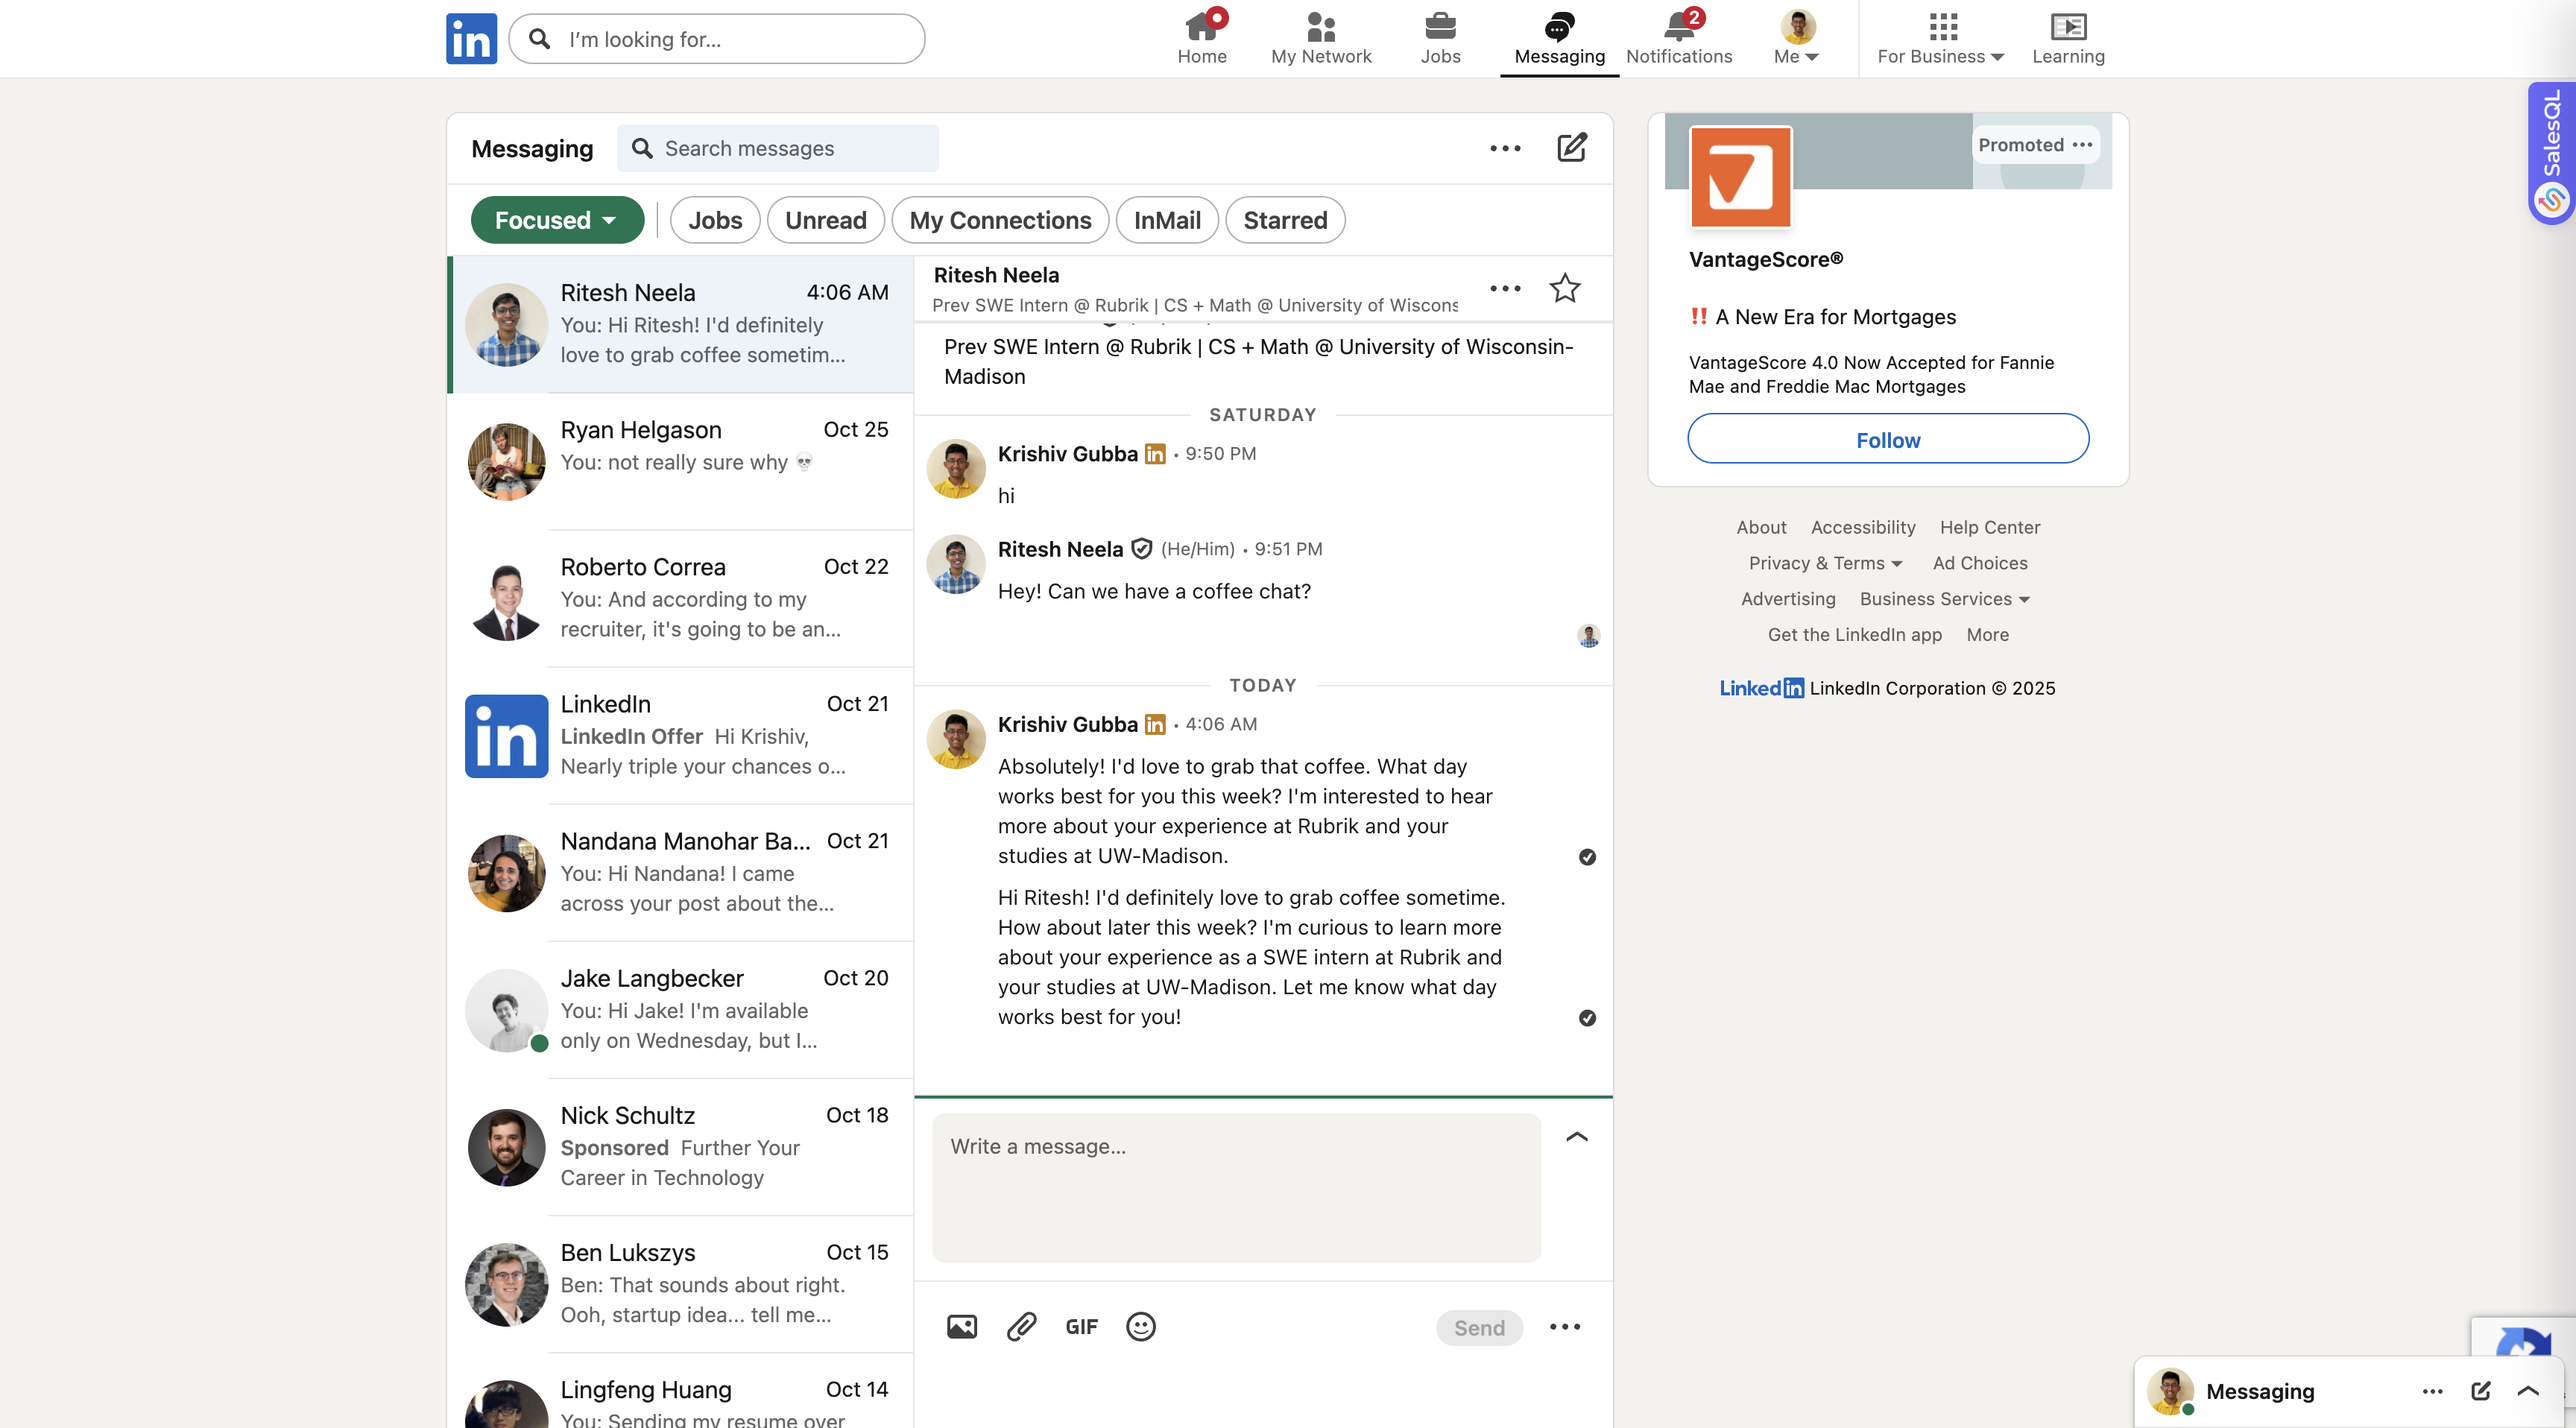
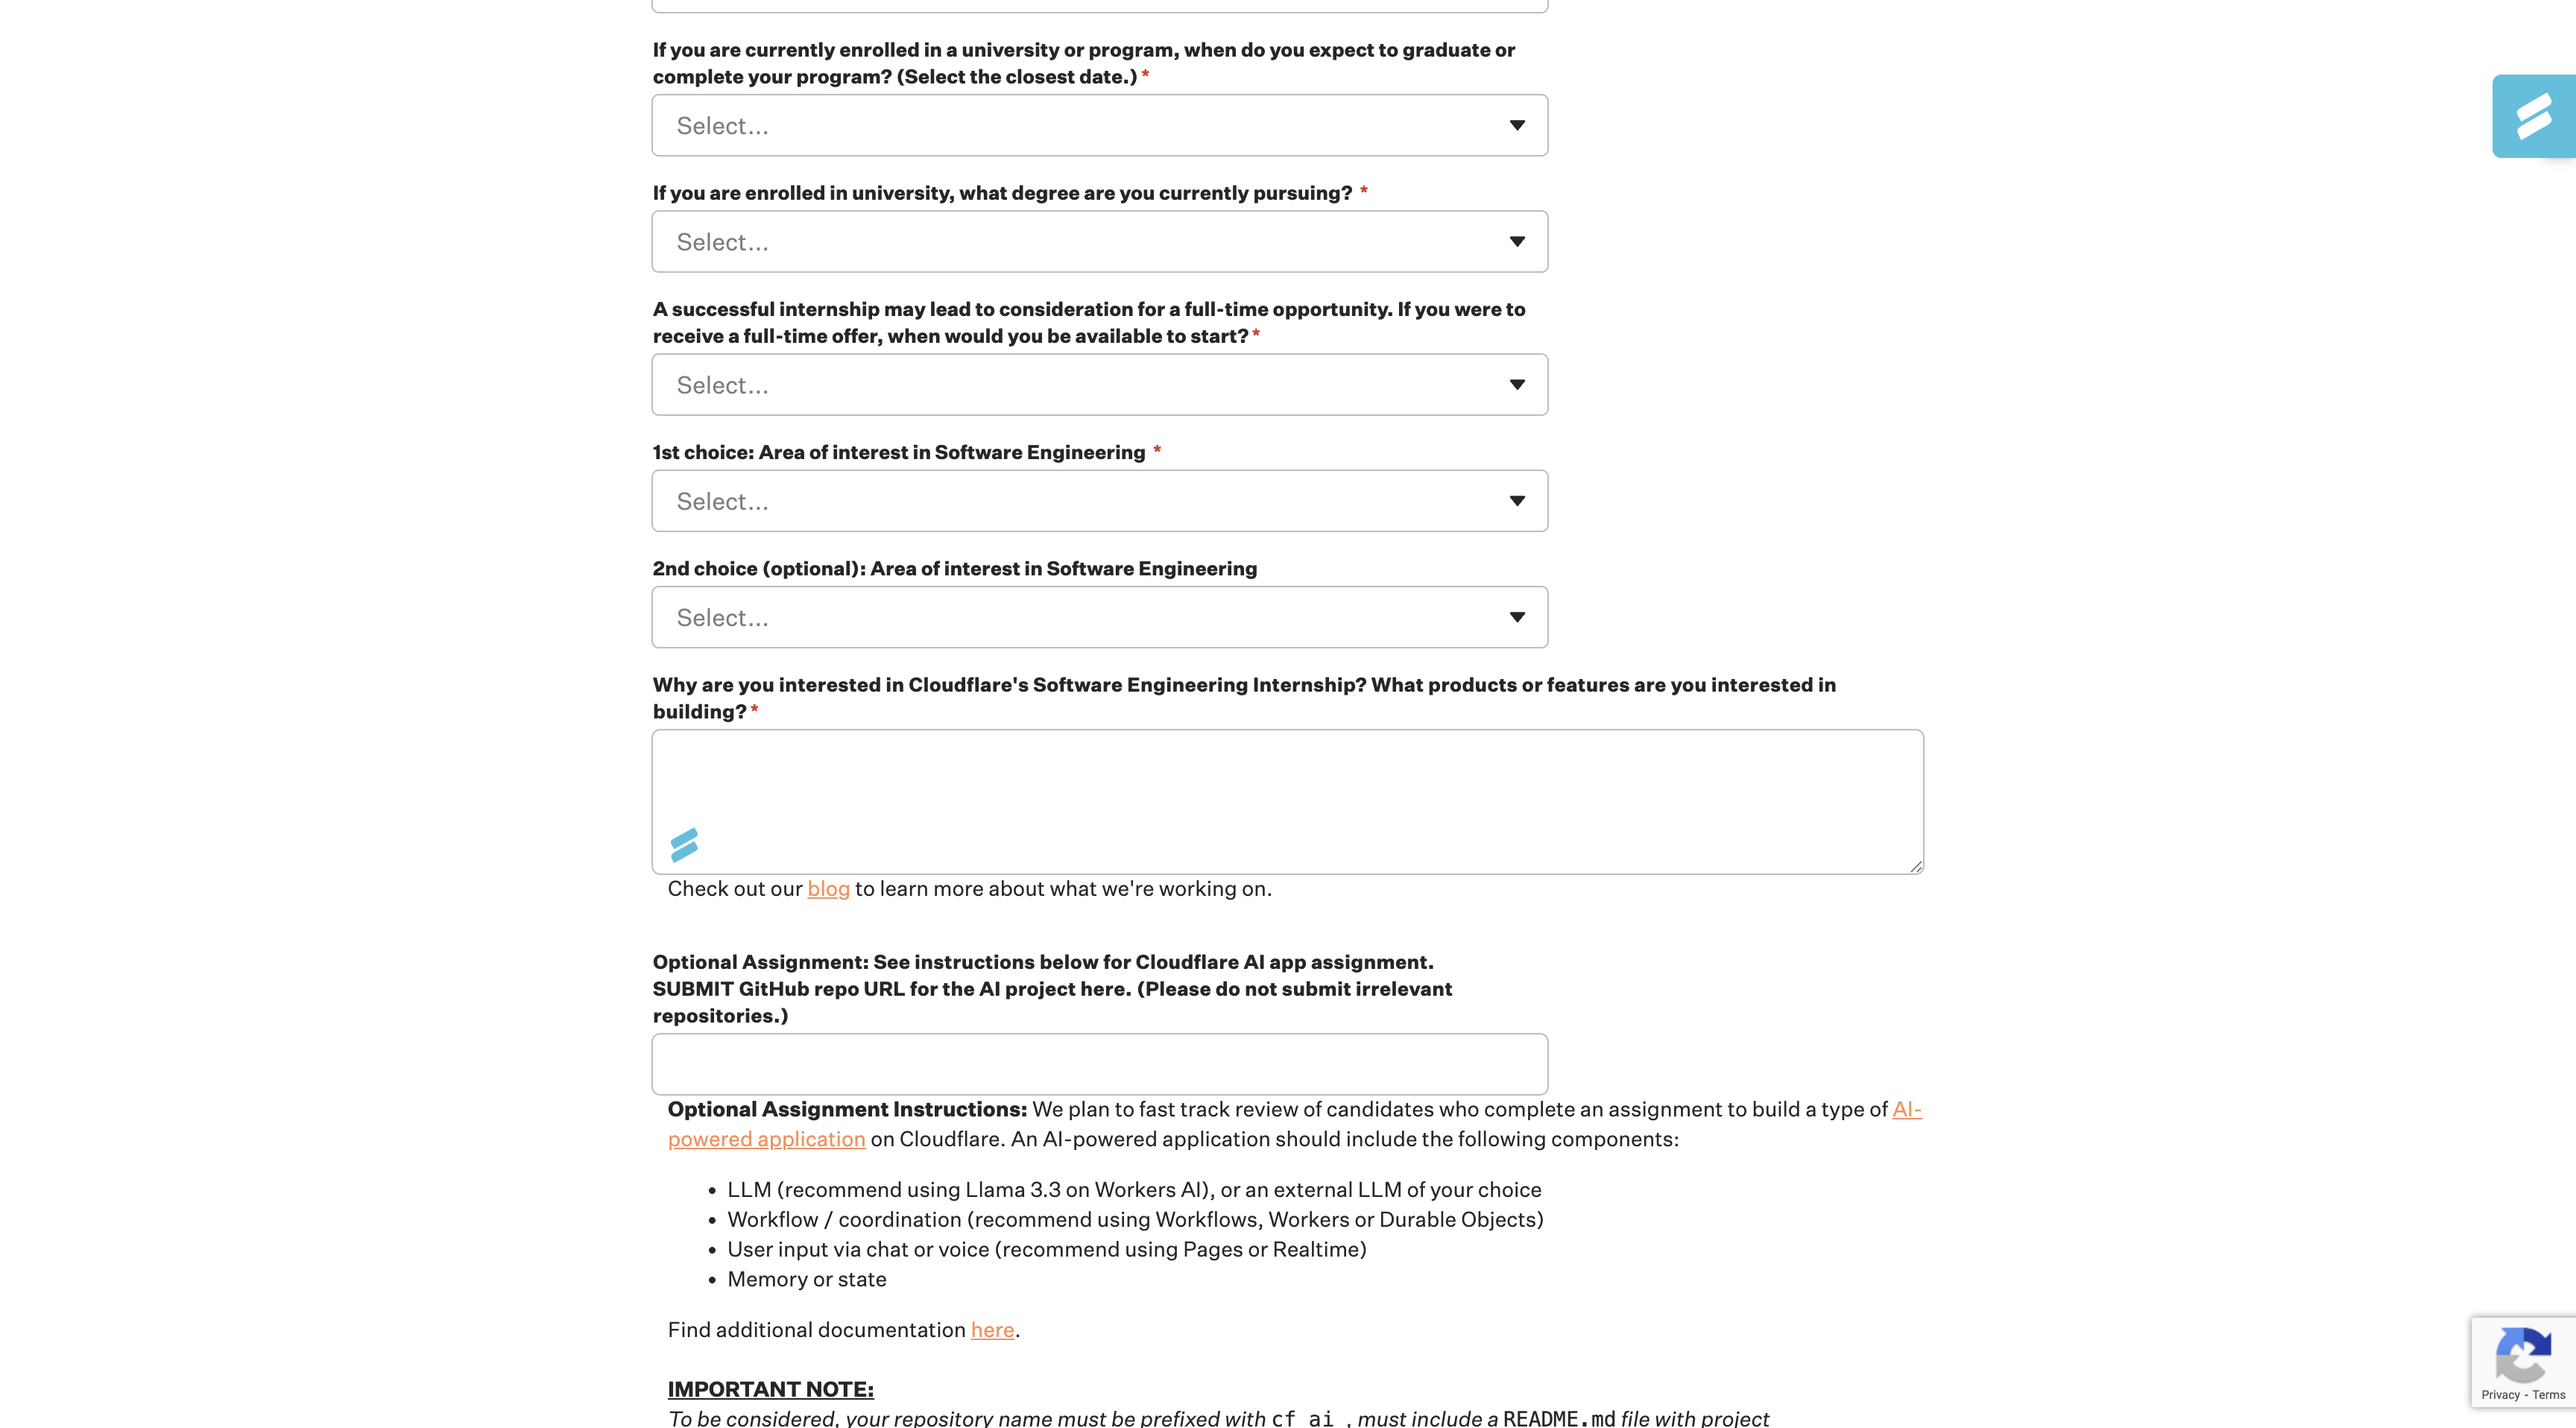
fsi;

diff --git a/executor/main.py b/executor/main.py
@@ -1,8 +1,9 @@
 from llm_client_obj import LLM_Client
 import json
-from learn_helper import LearnObject
-from vocab_code import click_at, insert_at
-
+from executor.learn_helper import LearnObject
+from executor.vocab_code import click_at, insert_at
+from executor.action_obj import Action
+from executor.action_run import get_simplified_dom
 
 def decide(context_json):
     """
@@ -67,6 +68,8 @@ You will be given a JSON object called `context_json` describing what the user i
 Your task is to decide if the user’s intent involves **sending, writing, or preparing a message or communication** 
 to another person or group.
 
+LOOK AT THE PREVIOUS MESSAGES IN THE CHAT BEFORE REPLYING PLEASE, MAKE YOUR REPLY RELEVANT TO THE PREVIOUS CHATS
+
 This includes:
 - typing in a chat box or DM window (Slack, Discord, LinkedIn, Gmail, Messenger, etc.)
 - replying to a message or email
@@ -78,6 +81,8 @@ It does **not** include:
 - reading messages without replying,
 - searching for information,
 - performing unrelated tasks (coding, browsing, buying, learning, watching videos, etc.).
+- just being on someone's linkedin page
+- applying to a job
 
 Respond **only** with a JSON object in this exact format:
 {{ "res": "True" }} or {{ "res": "False" }}
@@ -100,6 +105,57 @@ context_json:
         return "true" in response.lower()
     return False
 
+def decideIsConnectionRequesting(context_json):
+    """
+    Determines whether the user is trying to send or prepare a LinkedIn-style
+    connection request (or similar action such as adding, following, or networking).
+
+    Returns True or False.
+    """
+    prompt = f"""
+You are an intent classifier.
+
+You will be given a JSON object called `context_json` describing what the user is currently doing.
+
+Your task is to decide if the user's intent is to **connect or network** with another person
+— typically by sending a LinkedIn connection request, following someone, or initiating contact.
+
+This includes:
+- THIS INCLUDES BEING ON ANOTHER PERSON'S LINNKEDIN PAGE DO NOT FORGET THIS!!!!
+- hovering near or viewing a “Connect”, “Follow”, or “Add” button,
+- opening a modal to add a note to a connection request,
+- searching for people to connect with,
+- or otherwise indicating an intent to start a new professional connection.
+
+It does **not** include:
+- sending a chat message to someone already connected,
+- viewing random content feeds,
+- learning or researching a topic,
+- editing your own profile,
+- browsing unrelated websites.
+
+Respond **only** with a JSON object in this exact format:
+{{ "res": "True" }} or {{ "res": "False" }}
+
+context_json:
+{json.dumps(context_json, indent=4)}
+    """
+
+    response = LLM_Client.generate(
+        prompt=prompt.strip(),
+        sys_prompt="You are a precise intent classifier that decides if the user is trying to send a LinkedIn connection request or connect with a new person.",
+        model="claude-3-opus-latest"
+    )
+
+    # handle both dict or string return
+    if isinstance(response, dict):
+        val = response.get("res")
+        return str(val).lower() == "true"
+    if isinstance(response, str):
+        return "true" in response.lower()
+    return False
+
+
 
 def thingy(contextJson):
     #somehow the context has to be passed to us, maybe we can hit an endpoint
@@ -119,28 +175,75 @@ def thingy(contextJson):
         lo.youtubeSearchUp(allQueries[0])
         lo.switchToTabByIndex(0)
     else:
-        if decideIsMessageSending(context_json=contextJson):
+        if decideIsConnectionRequesting(context_json=contextJson):
+            print("we are connection request")
+            click_at(358, 504)
+            click_at(838, 232)
+            click_at(664, 224)
+            action, details = contextJson["action"], contextJson["details"]
+            messageToBeSent = LLM_Client.queryForMessage(action, details)
+            insert_at(messageToBeSent)
+        elif decideIsMessageSending(context_json=contextJson):
             click_at(642, 767)
             action, details = contextJson["action"], contextJson["details"]
             messageToBeSent = LLM_Client.queryForMessage(action, details)
             insert_at(messageToBeSent)
             click_at(1007, 884)
-        else:
-            print("not sending a message")
+        else: #is going to apply for a job lmao
+            for j in range(5):
+                for i in range(7):
+                    print("this is i", i)
+                #     contextJson = {
+                #         "goal" : "the user is trying to apply for a job",
+                #         "details" : """
+                # user details:
+                # first name: Krishiv
+                # last name: Gubba
+                # phone number: 8476682616
+                # email: kgubba@wisc.edu
+                #                     """
+                # }
+                    first = Action(contextJson=contextJson)
+                    client = LLM_Client()
+                    output = first.query_llm(client)
+                    first.execute(output)
+                    newDom = first.update_dom_change(get_simplified_dom())
+                    with open("/Users/krishivgubba/Dev/covalent-calhacks/executor/something.json", "w") as file:
+                        file.write(json.dumps(first.dom_snapshot))
+                    if i == 9:
+                        first.execute({
+                            "type" : "scroll",
+                            "direction" : "down",
+                            "amount" : 500
+                        })
+
 
 if __name__ == "__main__":
-    samples = [
         # {"action": "the user seems to have a question", "details": "what is the difference between supervised and unsupervised learning"},
         # {"action": "the user is searching something up", "details": "looking for a place to eat near San Francisco"},
         # {"action": "the user is debugging some code", "details": "trying to fix a syntax error in my Python script"},
-        # {"action": "the user is reading an article", "details": "reading about how blockchain consensus algorithms work"},
-        {"action": "the user is texting someone on linkedin", "details": "the user is dming ritesh neela"},
-    ]
+#         # {"action": "the user is reading an article", "details": "reading about how blockchain consensus algorithms work"},
+#         {"action": "the user is applying to a job", "details": """
+#                 user details:
+#                 first name: Krishiv
+#                 last name: Gubba
+#                 phone number: 8476682616
+#                 email: kgubba@wisc.edu
+# """},
+#     ]
 
-    print("=== Intent Classification Test ===")
-    for i, ctx in enumerate(samples, 1):
-        result = thingy(ctx)
-        print(f"Sample {i}:")
-        print(f"  action  = {ctx['action']}")
-        print(f"  details = {ctx['details']}")
-        print(f"  → messaging someone? {result}\n")
+    # print("=== Intent Classification Test ===")
+    # for i, ctx in enumerate(samples, 1):
+    #     result = thingy(ctx)
+    #     print(f"Sample {i}:")
+    #     print(f"  action  = {ctx['action']}")
+    #     print(f"  details = {ctx['details']}")
+    #     print(f"  → messaging someone? {result}\n")
+    bro = {"action": "the user is applying to a job", "details": """
+                user details:
+                first name: Krishiv
+                last name: Gubba
+                phone number: 8476682616
+                email: kgubba@wisc.edu
+"""}
+    thingy(bro)

diff --git a/executor/action_obj.py b/executor/action_obj.py
@@ -37,13 +37,11 @@ You must output exactly ONE JSON object describing the next action to take on th
 The JSON must follow this schema:
 
 {{
-    "type": "click" | "set_value" | "scroll" | "wait" | "hover" | "navigate" | "extract" | "done",
+    "type": "click" | "set_value" | "scroll" | "done",
     "selector": "CSS selector or text id to target (omit if not applicable)",
     "value": "string (required only for 'set_value')",
-    "url": "string (required only for 'navigate')",
     "direction": "down" | "up" (optional, for scroll),
     "amount": 800 (integer, optional, for scroll),
-    "duration": number (optional, for wait)
 }}
 
 ⚠ RULES
@@ -63,7 +61,7 @@ The JSON must follow this schema:
 - DO NOT EVER REPEAT PREVIOUS ACTIONS
 
 🧭 CONTEXT
-Goal: {self.context['goal']}
+Goal: {self.context['goal'] if 'goal' in self.context else self.context['action']}
 Details: {self.context['details']}
 Previous action: {self.prev_action}
 Last DOM change: {self.last_change}
@@ -134,25 +132,25 @@ Return only the JSON action now.
 # with open("/Users/krishivgubba/Dev/covalent-calhacks/executor/testscroll.json", "r") as data:
 #     time.sleep(4)
 #     thing = Action("", "", "")
-#     thing.execute(json.load(data))
-for i in range(10):
-    contextJson = {
-        "goal" : "the user is trying to apply for a job",
-        "details" : """
-user details:
-first name: krishiv
-last name: gubba
-phone number: 8476682616
-email: kgubba@wisc.edu
-                    """
-    }
-    first = Action(contextJson=contextJson)
-    client = LLM_Client()
-    output = first.query_llm(client)
-    first.execute(output)
-    newDom = first.update_dom_change(get_simplified_dom())
-    with open("/Users/krishivgubba/Dev/covalent-calhacks/executor/something.json", "w") as file:
-        file.write(json.dumps(first.dom_snapshot))
+# #     thing.execute(json.load(data))
+# for i in range(10):
+#     contextJson = {
+#         "goal" : "the user is trying to apply for a job",
+#         "details" : """
+# user details:
+# first name: krishiv
+# last name: gubba
+# phone number: 8476682616
+# email: kgubba@wisc.edu
+#                     """
+#     }
+#     first = Action(contextJson=contextJson)
+#     client = LLM_Client()
+#     output = first.query_llm(client)
+#     first.execute(output)
+#     newDom = first.update_dom_change(get_simplified_dom())
+#     with open("/Users/krishivgubba/Dev/covalent-calhacks/executor/something.json", "w") as file:
+#         file.write(json.dumps(first.dom_snapshot))
 
-#TODO: terminate when the LLM wants you to scroll on a page where you've already reached the bottom
+# #TODO: terminate when the LLM wants you to scroll on a page where you've already reached the bottom
 

diff --git a/executor/showui-claude.py b/executor/showui-claude.py
@@ -1,8 +1,8 @@
 import os
 import json
 from dotenv import load_dotenv
-from vocab_code import capture_screenshot, click_at, annotate_screenshot
-from llm_client_obj import LLM_Client
+from executor.vocab_code import capture_screenshot, click_at, annotate_screenshot
+from executor.llm_client_obj import LLM_Client
 
 class ShowUIClaudeAdapter:
     """
@@ -113,8 +113,8 @@ class ShowUIClaudeAdapter:
 
 
 
-agent = ShowUIClaudeAdapter()
+# agent = ShowUIClaudeAdapter()
 
-# single step test
-action = agent("click on the message input box to ritesh neela.")
-agent.execute_action(action)
+# # single step test
+# action = agent("click on the message input box to ritesh neela.")
+# agent.execute_action(action)

diff --git a/executor/action_run.py b/executor/action_run.py
@@ -1,6 +1,6 @@
 # file: run_actions.py
 from playwright.sync_api import sync_playwright
-from vocab_code import click_element, set_value, scroll_page, wait_seconds, hover_element, navigate_to, extract_text
+from executor.vocab_code import click_element, set_value, scroll_page, wait_seconds, hover_element, navigate_to, extract_text
 import json
 import time
 

diff --git a/executor/learn_helper.py b/executor/learn_helper.py
@@ -1,7 +1,7 @@
 import requests
 from playwright.sync_api import sync_playwright
 from urllib.parse import quote_plus
-from llm_client_obj import LLM_Client
+from executor.llm_client_obj import LLM_Client
 
 class LearnObject:
     def __init__(self, ws_endpoint=None):

diff --git a/executor/llm_client_obj.py b/executor/llm_client_obj.py
@@ -3,7 +3,7 @@ import json
 from dotenv import load_dotenv
 from anthropic import Anthropic
 import base64
-from vocab_code import capture_screenshot
+from executor.vocab_code import capture_screenshot
 
 class LLM_Client:
 
